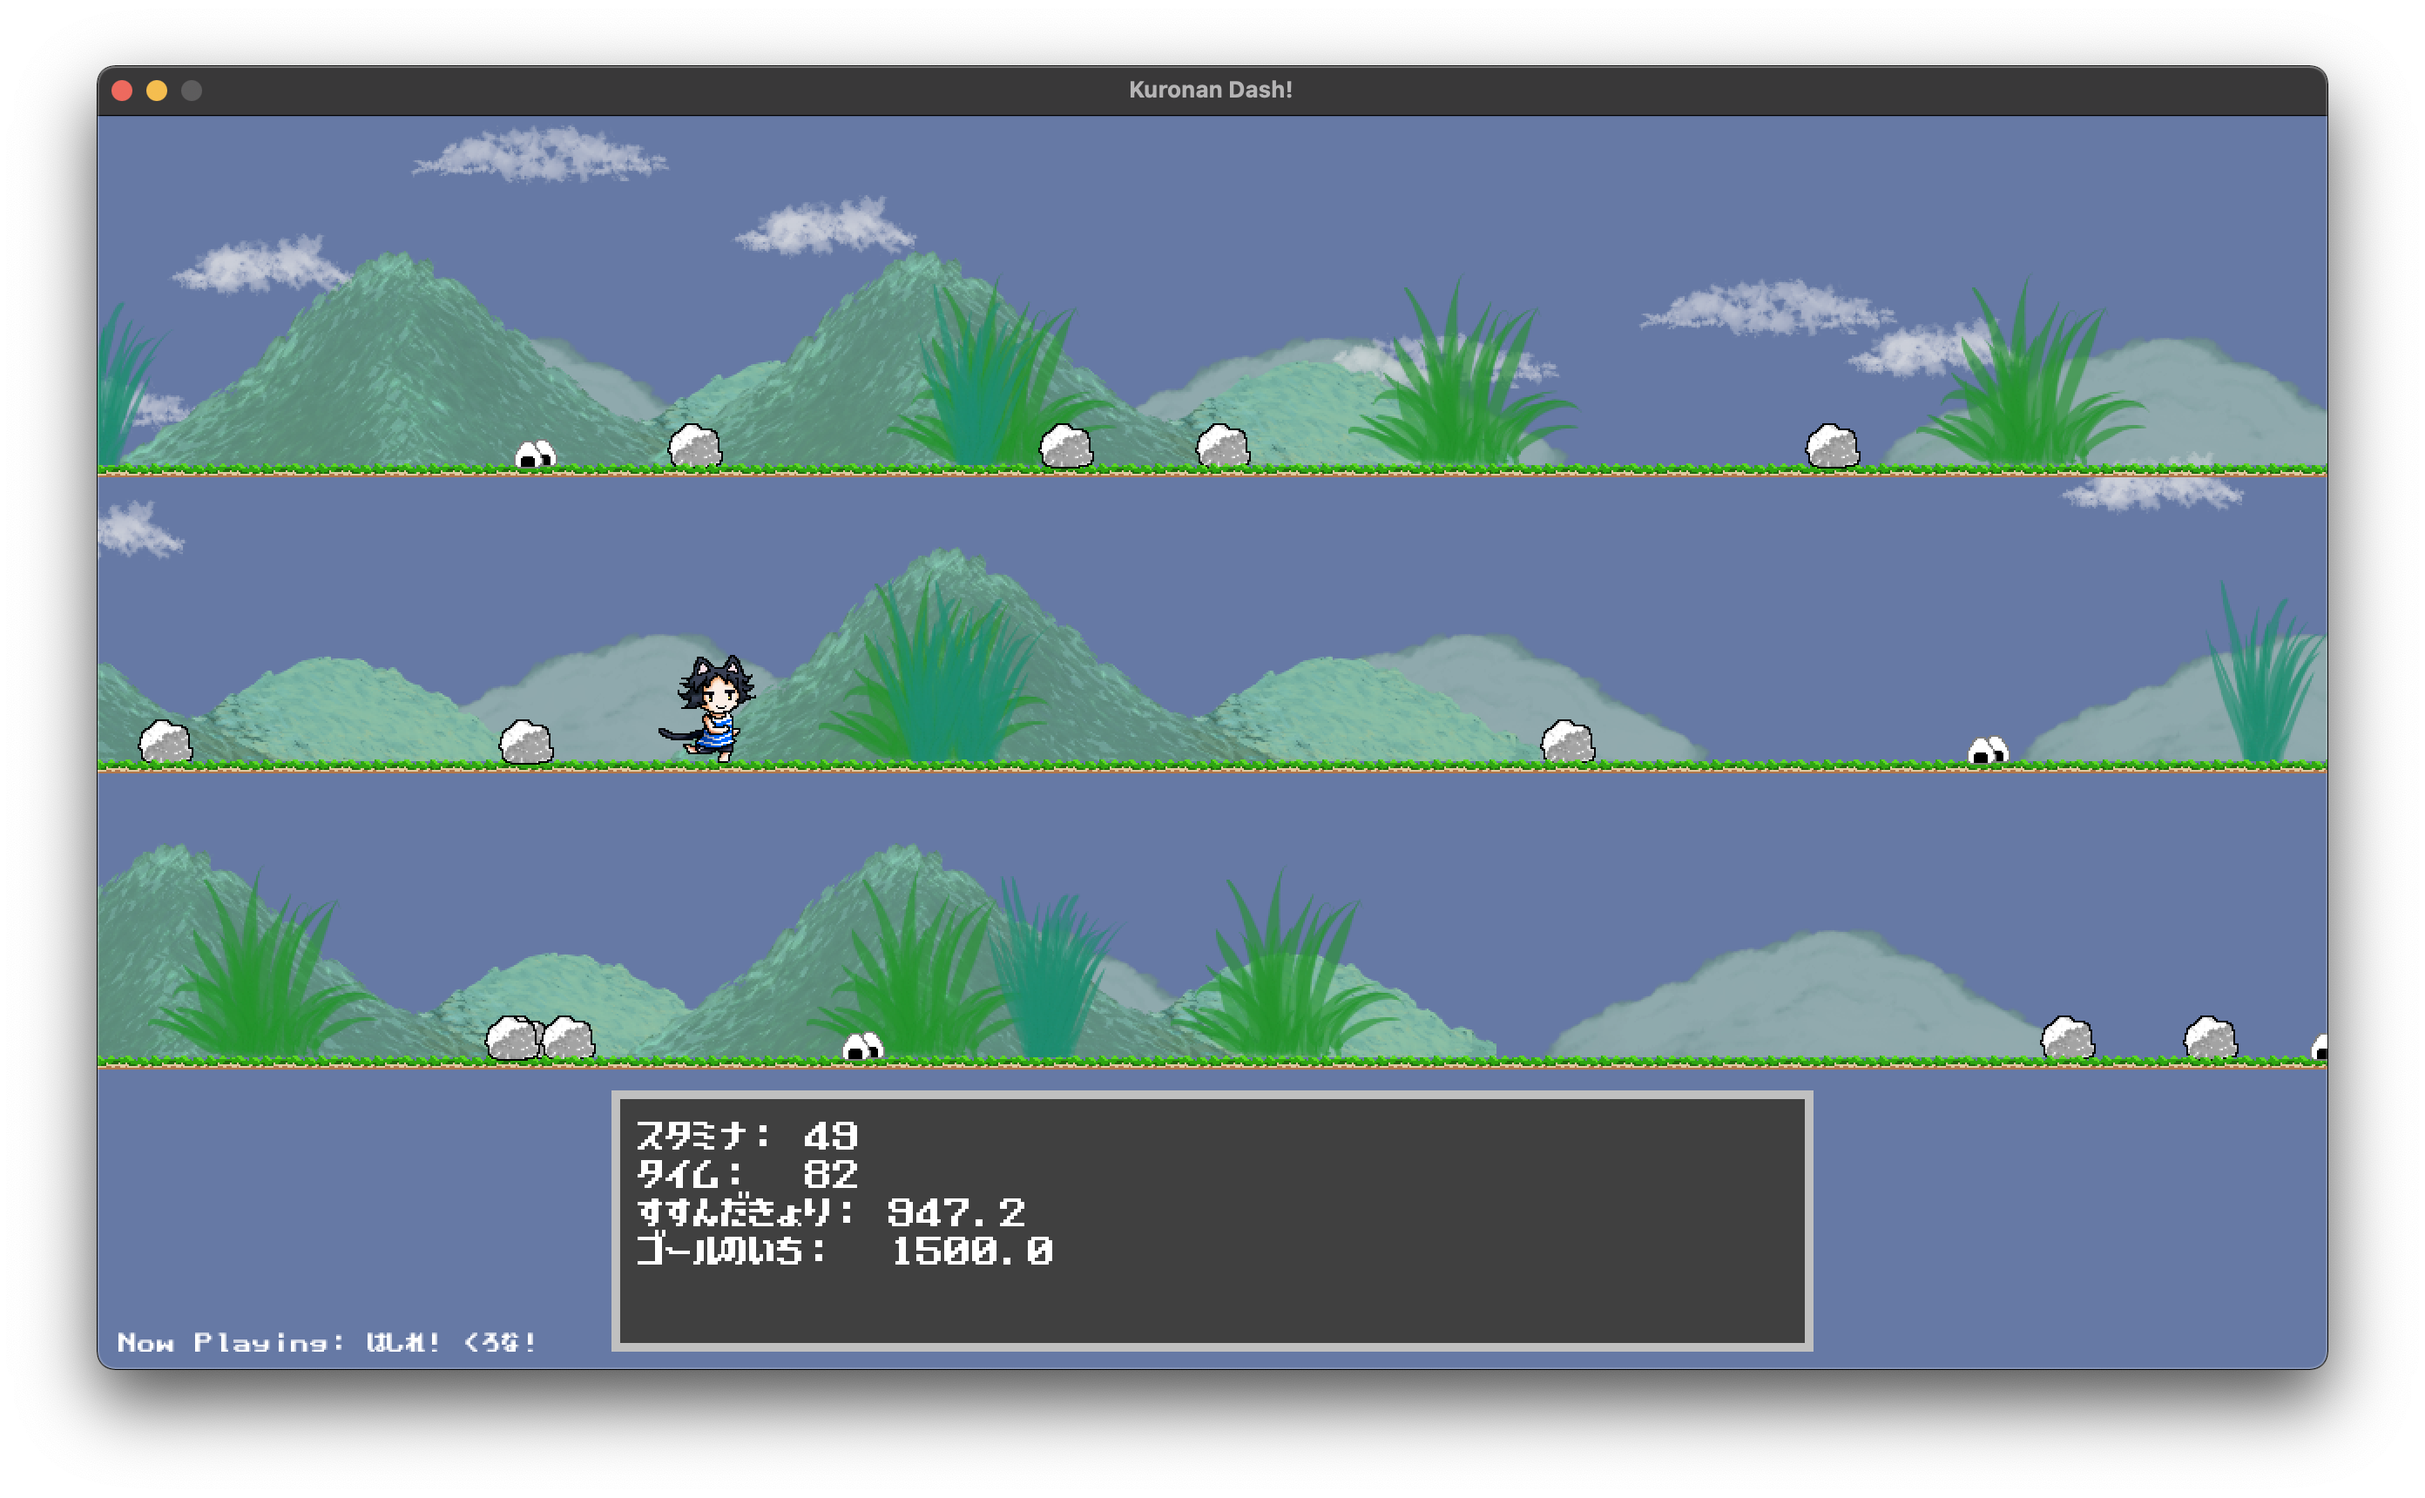
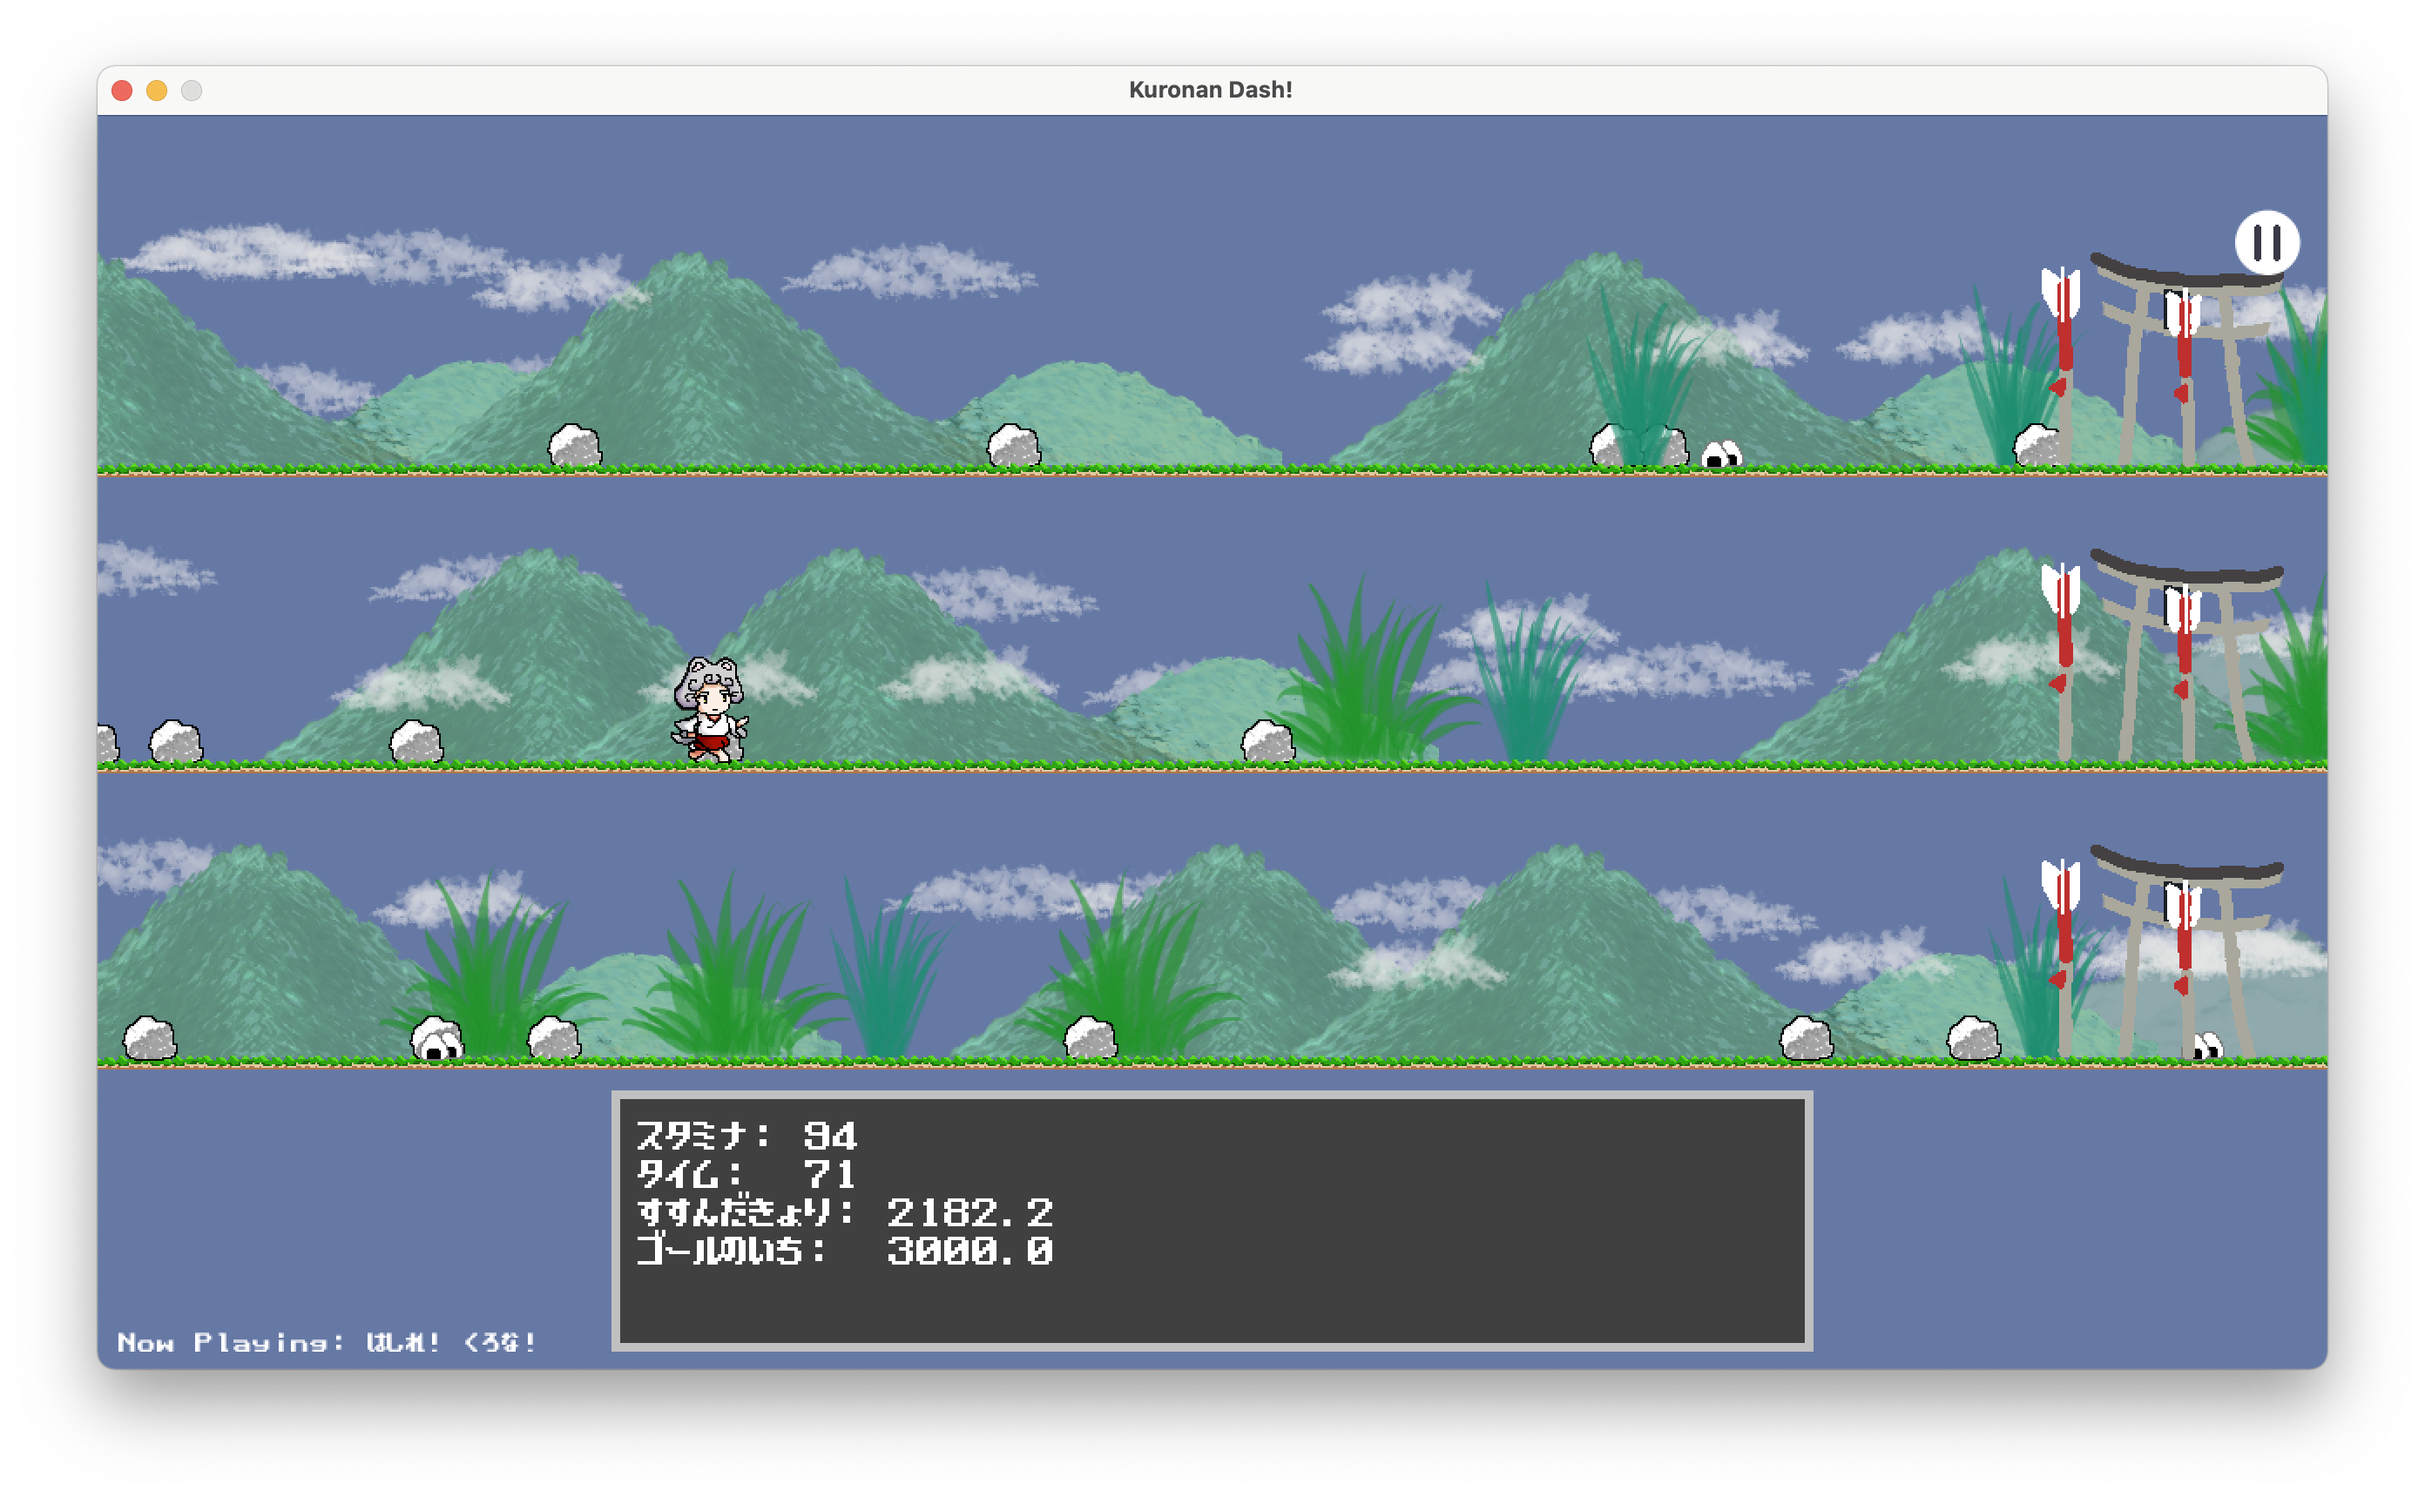
docs: change message and pos

diff --git a/internal/scenes/scene_stage01.go b/internal/scenes/scene_stage01.go
@@ -85,7 +85,7 @@ func (s *Stage01Scene) Initialize() error {
 	s.player.SetInputChecker(laneRectArray)
 
 	s.startBtn = vpad.NewTriggerButton(images.StartButton, vpad.JustPressed, vpad.SelectColor)
-	s.startBtn.SetLocation(view.ScreenWidth/2-64, view.ScreenHeight/2-64)
+	s.startBtn.SetLocation(view.ScreenWidth/2-64, view.ScreenHeight/2-128)
 	s.pauseBtn = vpad.NewTriggerButton(images.PauseButton, vpad.JustPressed, vpad.SelectColor)
 	s.pauseBtn.SetLocation(view.ScreenWidth-58, 48)
 	s.iChecker = &input.GameInputChecker{StartBtn: s.startBtn, PauseBtn: s.pauseBtn}
@@ -191,16 +191,16 @@ func (s *Stage01Scene) drawWithState(screen *ebiten.Image) {
 	// TODO: StartとPauseのボタンは見えてないだけで、該当する場所を押せばボタンはトリガーされる。弊害がありそうなら処置する。
 	switch s.state {
 	case wait:
-		text.Draw(screen, messages.GameStart, fonts.GamerFontL, view.ScreenWidth/2-300, view.ScreenHeight/2+90, color.White)
+		text.Draw(screen, messages.GameStart, fonts.GamerFontL, view.ScreenWidth/2-280, view.ScreenHeight/2+30, color.White)
 		s.startBtn.Draw(screen)
 	case pause:
-		text.Draw(screen, messages.GamePause, fonts.GamerFontL, view.ScreenWidth/2-150, view.ScreenHeight/2+90, color.White)
+		text.Draw(screen, messages.GamePause, fonts.GamerFontL, view.ScreenWidth/2-150, view.ScreenHeight/2+30, color.White)
 		s.startBtn.Draw(screen)
 	case run:
 		s.pauseBtn.Draw(screen)
 	case stageClear:
-		text.Draw(screen, messages.GameStageClear, fonts.GamerFontL, view.ScreenWidth/2-200, view.ScreenHeight/2-70, color.White)
-		text.Draw(screen, messages.GameStageClear2, fonts.GamerFontL, view.ScreenWidth/2-300, view.ScreenHeight/2+90, color.White)
+		text.Draw(screen, messages.GameStageClear, fonts.GamerFontL, view.ScreenWidth/2-200, view.ScreenHeight/2-134, color.White)
+		text.Draw(screen, messages.GameStageClear2, fonts.GamerFontL, view.ScreenWidth/2-500, view.ScreenHeight/2+30, color.White)
 		s.startBtn.Draw(screen)
 	case gameOver:
 		text.Draw(screen, messages.GameOver, fonts.GamerFontL, view.ScreenWidth/2-420, view.ScreenHeight/2, color.White)

diff --git a/assets/messages/ui_texts.go b/assets/messages/ui_texts.go
@@ -2,10 +2,11 @@ package messages
 
 // Texts for UI
 const (
-	TitleStart      = "Spaceキー を おしてね！"
-	GameStart       = "Spaceキー を おして ゲーム を はじめよう！"
-	GamePause       = "いちじていし しているよ！"
+	TitleStart      = "Spaceキー を おしてね！ \nマウスクリック でも OK！"
+	SelectStart     = "さゆう の カーソルキー で キャラクター を えらんで スペースキー を おしてね！ マウスクリック でも OK！"
+	GameStart       = "Spaceキー を おすか スタートボタン を\nマウス で おして ゲーム を はじめよう！"
+	GamePause       = "いちじ ていし しているよ！"
 	GameStageClear  = "やったね！ステージクリアーだよ！"
-	GameStageClear2 = "Spaceキーをおして つぎのステージへすすもう。"
+	GameStageClear2 = "Spaceキー を おすか マウス を クリック して つぎのステージへすすもう。"
 	GameOver        = "ゲームオーバー！ Spaceキー を おして タイトル へ もどろう"
 )

diff --git a/internal/field/prairie_field.go b/internal/field/prairie_field.go
@@ -37,10 +37,10 @@ func (p *PrairieField) createParts(goalX float64) {
 	}
 
 	assets := []ast{
-		{images.MountainFar, genPosField, genPosSet{3, 1280, 500}, 0.2},
-		{images.CloudFar, genPosAir, genPosSet{10, 2000, 500}, 0.3},
-		{images.MountainNear, genPosField, genPosSet{3, 518, 500}, 0.4},
-		{images.CloudNear, genPosAir, genPosSet{10, 3000, 400}, 0.7},
+		{images.MountainFar, genPosField, genPosSet{3, 1280, 500}, 0.1},
+		{images.CloudFar, genPosAir, genPosSet{10, 2000, 500}, 0.15},
+		{images.MountainNear, genPosField, genPosSet{3, 518, 500}, 0.2},
+		{images.CloudNear, genPosAir, genPosSet{10, 3000, 400}, 0.5},
 		{images.Grass1, genPosField, genPosSet{10, 600, 2000}, 0.8},
 		{images.Grass3, genPosField, genPosSet{10, 900, 3000}, 0.85},
 	}

diff --git a/internal/scenes/scene_select.go b/internal/scenes/scene_select.go
@@ -12,6 +12,7 @@ import (
 
 	"github.com/kemokemo/kuronan-dash/assets/fonts"
 	"github.com/kemokemo/kuronan-dash/assets/images"
+	"github.com/kemokemo/kuronan-dash/assets/messages"
 	"github.com/kemokemo/kuronan-dash/assets/music"
 	chara "github.com/kemokemo/kuronan-dash/internal/character"
 	"github.com/kemokemo/kuronan-dash/internal/input"
@@ -156,7 +157,7 @@ func (s *SelectScene) drawWindows(screen *ebiten.Image) {
 		s.windowList[i].DrawWindow(screen)
 	}
 
-	s.msgWindow.DrawWindow(screen, "さゆう の カーソルキー で キャラクター を えらんで スペースキー を おしてね！")
+	s.msgWindow.DrawWindow(screen, messages.SelectStart)
 }
 
 func (s *SelectScene) drawCharacters(screen *ebiten.Image) {

diff --git a/internal/scenes/scene_title.go b/internal/scenes/scene_title.go
@@ -36,7 +36,7 @@ func (s *TitleScene) Initialize() error {
 		X: float64(view.ScreenWidth/2) - 200,
 		Y: 80}
 	s.msgPos = view.Vector{
-		X: float64(view.ScreenWidth/2) - 170,
+		X: float64(view.ScreenWidth/2) - 200,
 		Y: float64(view.ScreenHeight/2) + 50}
 	s.iChecker = &input.TitleInputChecker{}
 	return nil
